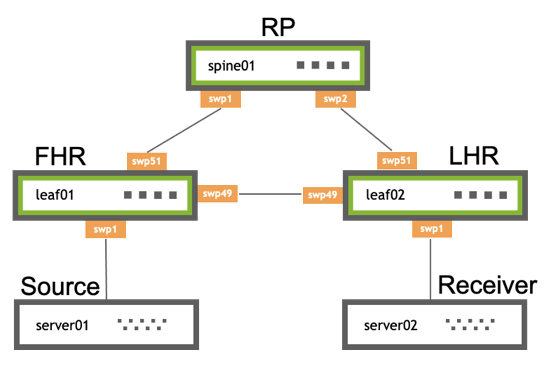
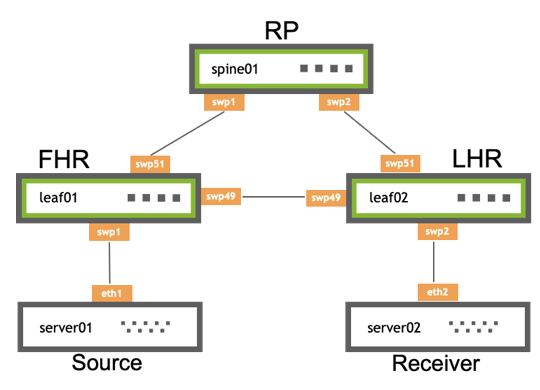
config updates

Changed region(s): [[0.0, 0.0299, 1.0, 0.9565], [0.3259, 0.3288, 0.3556, 0.3587]]

diff --git a/content/cumulus-linux-44/Layer-3/Protocol-Independent-Multicast-PIM.md b/content/cumulus-linux-44/Layer-3/Protocol-Independent-Multicast-PIM.md
@@ -39,7 +39,7 @@ To configure PIM:
 SSM uses prefix lists to configure a receiver to only allow traffic to a multicast address from a single source. This removes the need for an RP because the receiver must know the source before accepting traffic. To enable SSM, you only need to enable PIM and IGMPv3 on the interfaces.
 {{%/notice%}}
 
-These commands configure leaf01, leaf02 and spine01 as shown in the topology example above.
+These example commands configure leaf01, leaf02 and spine01 as shown in the topology example above.
 
 In Cumulus Linux 4.4, you cannot configure PIM with NVUE commands.
 
@@ -264,7 +264,7 @@ This section describes optional configuration procedures.
 
 ### ASM SPT Infinity
 
-When the LHR receives the first multicast packet, it sends a [PIM (S,G) join](## "a single PIM message with a list of groups to join. ") towards the FHR to forward traffic through the network. This builds the [SPT](## "shortest path tree "), or the tree that is the shortest path to the source. When the traffic arrives over the SPT, a PIM (S,G) RPT prune goes up the shared tree towards the RP. This removes multicast traffic from the shared tree; multicast data only goes over the SPT.
+When the [LHR](## "Last Hop Router") receives the first multicast packet, it sends a [PIM (S,G) join](## "a single PIM message with a list of groups to join. ") towards the [FHR](## "First Hop Router") to forward traffic through the network. This builds the [SPT](## "shortest path tree "), or the tree that is the shortest path to the source. When the traffic arrives over the SPT, a PIM (S,G) RPT prune goes up the shared tree towards the [RP](## "Rendezvous Point"). This removes multicast traffic from the shared tree; multicast data only goes over the SPT.
 
 You can configure SPT switchover per group (SPT infinity), which allows for some groups to never switch to a shortest path tree. The LHR now sends both (*,G) joins and (S,G) RPT prune messages towards the RP.
 
@@ -440,7 +440,7 @@ Address         Interface      Nexthop
 
 ### IP Multicast Boundaries
 
-Use multicast boundaries to limit the distribution of multicast traffic by setting boundaries to push multicast to a subset of the network. With boundaries in place, the switch drops or accepts incoming IGMP or PIM joins according to the prefix-list. You configure the boundary by applying an IP multicast boundary OIL (outgoing interface list) on an interface.
+Use multicast boundaries to limit the distribution of multicast traffic by setting boundaries to push multicast to a subset of the network. With boundaries in place, the switch drops or accepts incoming IGMP or PIM joins according to the prefix list. You configure the boundary by applying an IP multicast boundary OIL (outgoing interface list) on an interface.
 
 To configure the multicast boundary, first create a prefix list, then run the following commands:
 
@@ -481,7 +481,7 @@ When an RP discovers a new source (a PIM-SM register message), it sends an [SA](
 - Cumulus Linux only supports one MSDP mesh group.
 {{%/notice%}}
 
-The following steps configure a Cumulus switch to use the MSDP:
+The following steps configure a Cumulus switch to use MSDP:
 
 {{< tabs "TabID1032 ">}}
 {{< tab "NCLU Commands ">}}
@@ -695,10 +695,10 @@ To verify the configuration, run the NCLU `net show mroute vrf <vrf-name>` comma
 ```
 cumulus@fhr:~$ net show mroute vrf RED
 Source          Group           Proto  Input      Output     TTL  Uptime
-11.1.0.1        239.1.1.1       IGMP   swp32s0    swp32s1    1    00:01:13
+11.1.0.1        239.1.1.1       IGMP   swp2       swp2       1    00:01:13
                                 IGMP              br0.200    1    00:01:13
 *               239.1.1.2       IGMP   mars       pimreg1001 1    00:01:13
-                                IGMP              swp32s1    1    00:01:12
+                                IGMP              swp2       1    00:01:12
                                 IGMP              br0.200    1    00:01:13
 ```
 
@@ -1404,11 +1404,16 @@ The following example shows
 
 ```
 cumulus@leaf01:~$ net add loopback lo ip address 10.10.10.1/32
-cumulus@leaf01:~$ net add interface swp1,swp2,swp49,swp50,swp51
+cumulus@leaf01:~$ net add interface swp1,swp49,swp50,swp51
+cumulus@leaf01:~$ net add bridge bridge ports swp1
+cumulus@leaf01:~$ net add vlan 10 ip address 10.1.10.1/24
+cumulus@leaf01:~$ net add bridge bridge pvid 10
 cumulus@leaf01:~$ net add bgp autonomous-system 65101
 cumulus@leaf01:~$ net add bgp router-id 10.10.10.1
 cumulus@leaf01:~$ net add bgp neighbor swp51 remote-as external
 cumulus@leaf01:~$ net add bgp ipv4 unicast network 10.10.10.1/32
+cumulus@leaf01:~$ net add bgp ipv4 unicast network 10.1.10.0/24
+cumulus@leaf01:~$ net add loopback lo pim
 cumulus@leaf01:~$ net add interface swp1 pim
 cumulus@leaf01:~$ net add interface swp51 pim
 cumulus@leaf01:~$ net add interface swp1 igmp
@@ -1421,11 +1426,16 @@ cumulus@leaf01:~$ net commit
 
 ```
 cumulus@leaf02:~$ net add loopback lo ip address 10.10.10.2/32
-cumulus@leaf02:~$ net add interface swp1,swp2,swp49,swp50,swp51
+cumulus@leaf02:~$ net add interface swp2,swp49,swp50,swp51
+cumulus@leaf02:~$ net add bridge bridge ports swp2
+cumulus@leaf02:~$ net add vlan 20 ip address 10.2.10.1/24
+cumulus@leaf02:~$ net add bridge bridge pvid 20
 cumulus@leaf02:~$ net add bgp autonomous-system 65102
 cumulus@leaf02:~$ net add bgp router-id 10.10.10.2
 cumulus@leaf02:~$ net add bgp neighbor swp51 remote-as external
 cumulus@leaf02:~$ net add bgp ipv4 unicast network 10.10.10.2/32
+cumulus@leaf02:~$ net add bgp ipv4 unicast network 10.2.10.0/24
+cumulus@leaf02:~$ net add loopback lo pim
 cumulus@leaf02:~$ net add interface swp2 pim
 cumulus@leaf02:~$ net add interface swp51 pim
 cumulus@leaf02:~$ net add interface swp2 igmp
@@ -1443,6 +1453,8 @@ cumulus@spine01:~$ net add bgp autonomous-system 65199
 cumulus@spine01:~$ net add bgp router-id 10.10.10.101
 cumulus@spine01:~$ net add bgp neighbor swp1 remote-as external
 cumulus@spine01:~$ net add bgp neighbor swp2 remote-as external
+cumulus@spine01:~$ net add bgp ipv4 unicast network 10.10.10.101/32
+cumulus@spine01:~$ net add loopback lo pim
 cumulus@spine01:~$ net add interface swp1 pim
 cumulus@spine01:~$ net add interface swp1 igmp
 cumulus@spine01:~$ net add interface swp2 pim
@@ -1469,9 +1481,6 @@ iface lo inet loopback
 auto swp1
 iface swp1
 
-auto swp2
-iface swp2
-
 auto swp49
 iface swp49
 
@@ -1480,6 +1489,13 @@ iface swp50
 
 auto swp51
 iface swp51
+
+auto bridge
+iface bridge
+    bridge-ports swp1
+    bridge-pvid 10
+    bridge-vids 10
+    bridge-vlan-aware yes
 
 auto mgmt
 iface mgmt
@@ -1491,6 +1507,14 @@ auto eth0
 iface eth0 inet dhcp
     vrf mgmt
     post-up sysctl -w net.ipv6.conf.eth0.accept_ra=2
+
+source /etc/network/interfaces.d/*.cfg
+
+auto vlan10
+iface vlan10
+    address 10.1.10.1/24
+    vlan-id 10
+    vlan-raw-device bridge
 ```
 
 {{< /tab >}}
@@ -1502,9 +1526,6 @@ auto lo
 iface lo inet loopback
     address 10.10.10.2/32
 
-auto swp1
-iface swp1
-
 auto swp2
 iface swp2
 
@@ -1517,6 +1538,13 @@ iface swp50
 auto swp51
 iface swp51
 
+auto bridge
+iface bridge
+    bridge-ports swp2
+    bridge-pvid 20
+    bridge-vids 20
+    bridge-vlan-aware yes
+
 auto mgmt
 iface mgmt
     vrf-table auto
@@ -1527,6 +1555,14 @@ auto eth0
 iface eth0 inet dhcp
     vrf mgmt
     post-up sysctl -w net.ipv6.conf.eth0.accept_ra=2
+
+source /etc/network/interfaces.d/*.cfg
+
+auto vlan20
+iface vlan20
+    address 10.2.10.1/24
+    vlan-id 20
+    vlan-raw-device bridge
 ```
 
 {{< /tab >}}
@@ -1564,9 +1600,11 @@ cumulus@server01:~$ sudo cat /etc/network/interfaces
 # The loopback network interface
 auto lo
 iface lo inet loopback
+
 # The OOB network interface
 auto eth0
 iface eth0 inet dhcp
+
 # The data plane network interfaces
 auto eth1
 iface eth1 inet manual
@@ -1574,8 +1612,6 @@ iface eth1 inet manual
   netmask 255.255.255.0
   mtu 9000
   post-up ip route add 10.0.0.0/8 via 10.1.10.1
-auto eth2
-  post-up ip link set promisc on dev eth2
 ```
 
 {{< /tab >}}
@@ -1583,25 +1619,20 @@ auto eth2
 
 ```
 cumulus@server02:~$ sudo cat /etc/network/interfaces
-# The loopback network interface
 auto lo
 iface lo inet loopback
+
 # The OOB network interface
 auto eth0
 iface eth0 inet dhcp
+
 # The data plane network interfaces
-auto eth1
-iface eth1 inet manual
-  address 10.1.20.102
-  netmask 255.255.255.0
-  mtu 9000
-  post-up ip link set promisc on dev eth1
 auto eth2
 iface eth2 inet manual
-  address 10.1.20.102
+  address 10.2.10.102
   netmask 255.255.255.0
   mtu 9000
-  post-up ip route add 10.0.0.0/8 via 10.1.20.1
+  post-up ip route add 10.0.0.0/8 via 10.2.10.1
 ```
 
 {{< /tab >}}
@@ -1616,22 +1647,28 @@ iface eth2 inet manual
 ```
 cumulus@leaf01:mgmt:~$ sudo cat /etc/frr/frr.conf
 ...
+ip pim rp 10.10.10.101 224.0.0.0/4
+service integrated-vtysh-config
+!
+interface lo
+ ip pim
+!
+interface swp1
+ ip igmp
+ ip pim
+!
+interface swp51
+ ip pim
+!
 router bgp 65101
  bgp router-id 10.10.10.1
  neighbor swp51 interface
  neighbor swp51 remote-as external
  address-family ipv4 unicast
   network 10.10.10.1/32
+  network 10.1.10.0/24
  exit-address-family
-interface lo
- ip pim 
-interface swp1
- ip pim
- ip igmp
-interface swp51
- ip pim
-ip pim rp 10.10.10.101
-cumulus@leaf01:mgmt:~$
+!
 ```
 
 {{< /tab >}}
@@ -1646,6 +1683,7 @@ router bgp 65102
  neighbor swp51 remote-as external
  address-family ipv4 unicast
   network 10.10.10.2/32
+  network 10.2.10.0/24
  exit-address-family
 interface lo
  ip pim
@@ -1669,8 +1707,11 @@ router bgp 65199
  neighbor swp1 remote-as external
  neighbor swp2 interface
  neighbor swp2 remote-as external
+ address-family ipv4 unicast
+  network 10.10.10.101/32
+ exit-address-family
 interface lo
- ip pim 
+ ip pim
 interface swp1
  ip pim
  ip igmp
